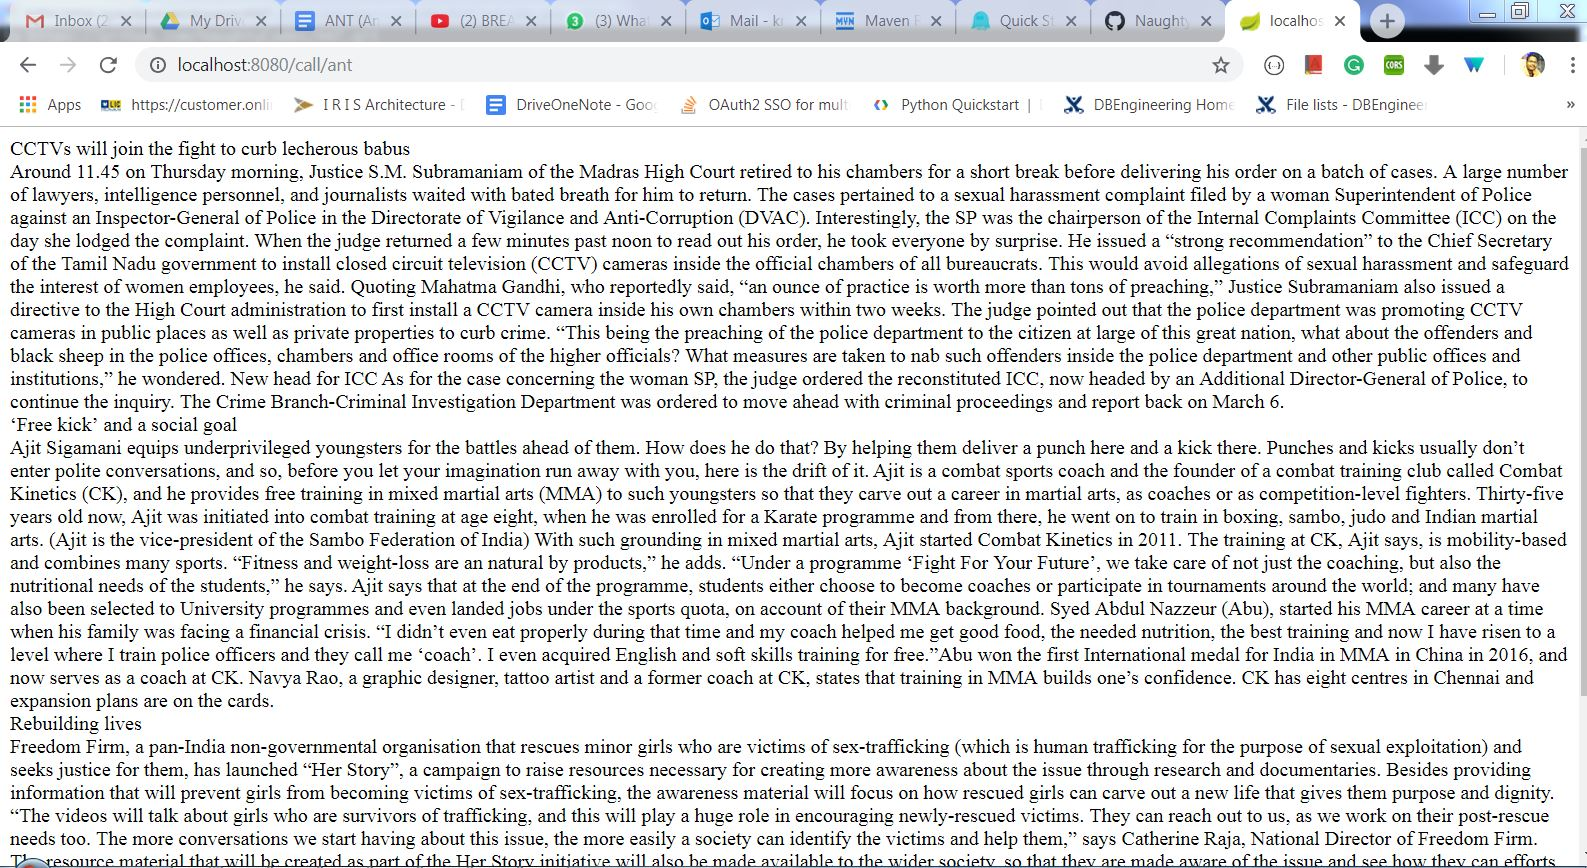
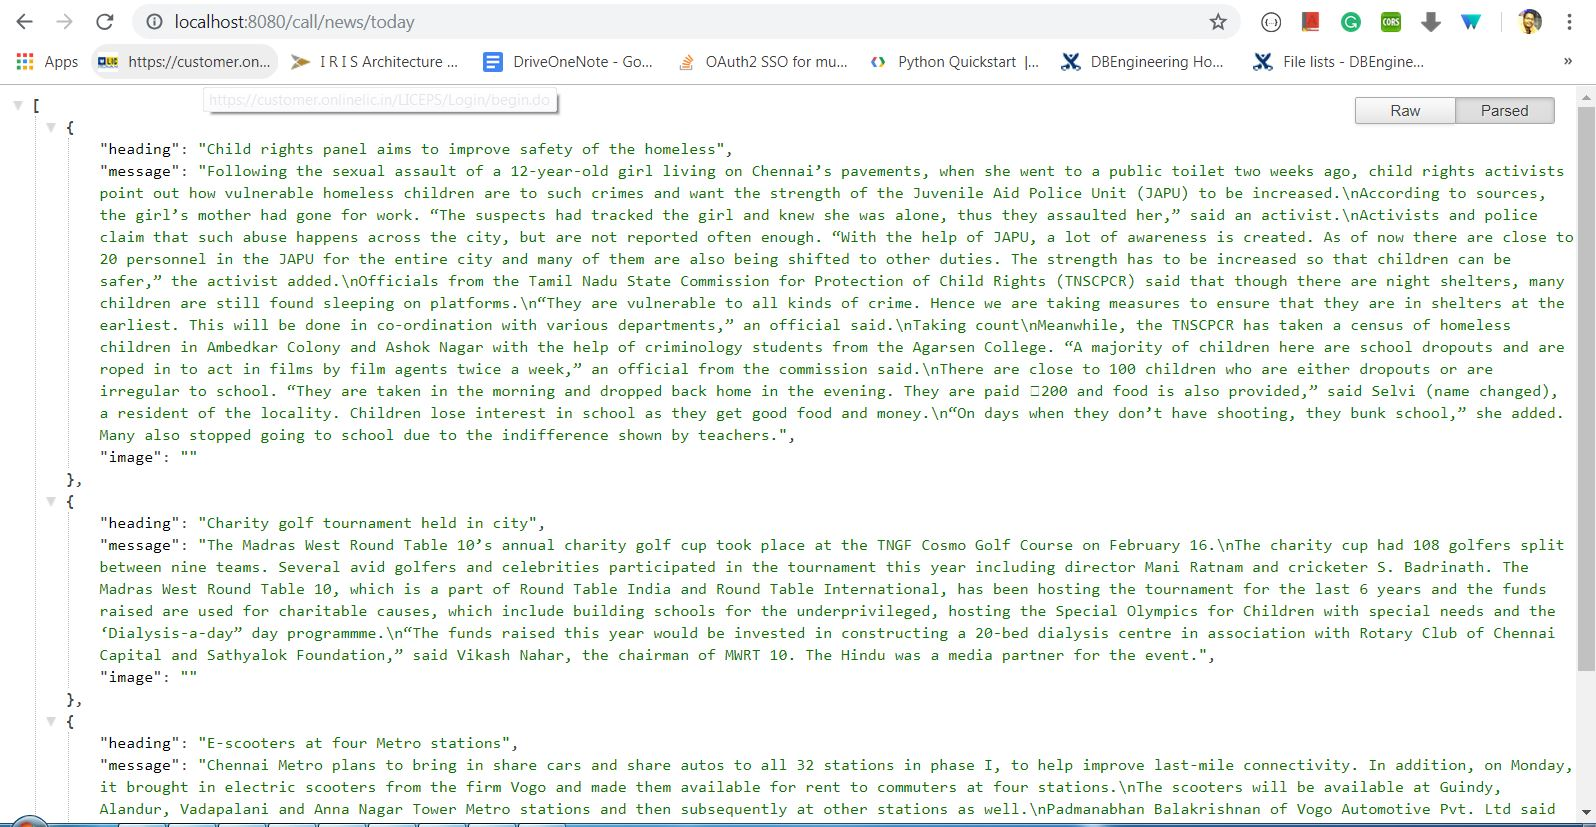
added source reader service in utility

diff --git a/src/main/java/com/ant/app/utils/UrlSourceReader.java b/src/main/java/com/ant/app/utils/UrlSourceReader.java
@@ -1,0 +1,77 @@
+package com.ant.app.utils;
+
+import java.io.File;
+import java.util.ArrayList;
+import java.util.List;
+
+import org.openqa.selenium.By;
+import org.openqa.selenium.WebDriver;
+import org.openqa.selenium.WebElement;
+import org.openqa.selenium.phantomjs.PhantomJSDriver;
+import org.openqa.selenium.phantomjs.PhantomJSDriverService;
+import org.openqa.selenium.remote.DesiredCapabilities;
+
+import com.ant.app.domain.NewsStorie;
+
+public class UrlSourceReader implements SourceReader {
+
+	private static String url;
+	private static List<String> cssSelectors = new ArrayList<String>();
+	private static String phantomPath;
+	private static List<NewsStorie> newsStories = new ArrayList<NewsStorie>();;
+	
+	@Override
+	public void sourceInitilizer() {
+		// TODO Auto-generated method stub
+		this.url = "http://www.thehindu.com/news/cities/chennai/feeder/default.rss";
+		this.cssSelectors.add("h1[class='title']");
+		this.cssSelectors.add("div[id^='content-body-']");
+		this.phantomPath = "G:\\sw\\phantomjs-2.1.1-windows\\bin\\phantomjs.exe";
+	}
+
+	@Override
+	public void sourceReader() {
+		// TODO Auto-generated method stub
+		
+		WebDriver iDriver = null;
+		WebDriver driver = null;
+		DesiredCapabilities dcap = new DesiredCapabilities();
+		String[] phantomArgs = new String[] { "--webdriver-loglevel=NONE" };
+		dcap.setCapability(PhantomJSDriverService.PHANTOMJS_CLI_ARGS, phantomArgs);
+
+		File file = new File(this.phantomPath);
+		System.setProperty("phantomjs.binary.path", file.getAbsolutePath());
+		driver = new PhantomJSDriver(dcap);
+		driver.get(this.url);
+		int i = 0;
+		for (WebElement e : driver.findElements(By.tagName("link"))) {
+			System.out.println(e.getText());
+			NewsStorie ns = new NewsStorie();
+			if (!e.getText().contentEquals("https://www.thehindu.com/") && (i<=2)) {
+				try {
+					iDriver = new PhantomJSDriver(dcap);
+					iDriver.get(e.getText());
+					ns.setHeading(iDriver.findElement(By.cssSelector(this.cssSelectors.get(0))).getText());
+					ns.setMessage(iDriver.findElement(By.cssSelector(this.cssSelectors.get(1))).getText());
+					ns.setImage("");
+					this.newsStories.add(ns);
+					iDriver.quit();
+					i++;
+				} catch (Exception exception) {
+					iDriver.quit();
+					driver.quit();
+				}
+			}
+		}
+		driver.quit();
+	}
+
+	@Override
+	public List<NewsStorie> getNewsStories() {
+		// TODO Auto-generated method stub
+		return this.newsStories;
+	}
+	
+	
+
+}

diff --git a/src/main/java/com/ant/app/controller/AntController.java b/src/main/java/com/ant/app/controller/AntController.java
@@ -1,6 +1,7 @@
 package com.ant.app.controller;
 
 import java.io.File;
+import java.util.List;
 
 import org.openqa.selenium.By;
 import org.openqa.selenium.WebDriver;
@@ -11,51 +12,24 @@ import org.openqa.selenium.remote.DesiredCapabilities;
 import org.springframework.web.bind.annotation.RequestMapping;
 import org.springframework.web.bind.annotation.RestController;
 
+import com.ant.app.domain.NewsStorie;
+import com.ant.app.utils.UrlSourceReader;
+
 @RestController
 @RequestMapping("/call")
 public class AntController {
 
-	@RequestMapping("/ant")
-	public String callAnt() {
-
+	@RequestMapping("/news/today")
+	public List<NewsStorie> readNewsToday() {
+		
+		UrlSourceReader sourceReader = new UrlSourceReader();
 		StringBuilder sb = new StringBuilder();
-		WebDriver iDriver = null;
-		WebDriver driver = null;
-		DesiredCapabilities dcap = new DesiredCapabilities();
-		String[] phantomArgs = new String[] { "--webdriver-loglevel=NONE" };
-		dcap.setCapability(PhantomJSDriverService.PHANTOMJS_CLI_ARGS, phantomArgs);
-
-		File file = new File("G:\\sw\\phantomjs-2.1.1-windows\\bin\\phantomjs.exe");
-		System.setProperty("phantomjs.binary.path", file.getAbsolutePath());
-		driver = new PhantomJSDriver(dcap);
-		driver.get("http://www.thehindu.com/news/cities/chennai/feeder/default.rss");
-		int i = 0;
-		for (WebElement e : driver.findElements(By.tagName("link"))) {
-			System.out.println(e.getText());
-			if (!e.getText().contentEquals("https://www.thehindu.com/") && (i<=2)) {
-				try {
-					iDriver = new PhantomJSDriver(dcap);
-					iDriver.get(e.getText());
-					sb.append("<h3>");
-					sb.append(iDriver.findElement(By.cssSelector("h1[class='title']")).getText());
-					sb.append("</h3>");
-					sb.append("<br />");
-					sb.append(iDriver.findElement(By.cssSelector("div[id^='content-body-']")).getText());
-					sb.append("<br /><br />");
-					iDriver.quit();
-					i++;
-					//break;
-				} catch (Exception exception) {
-					iDriver.quit();
-					driver.quit();
-				}
-			}
+		sourceReader.sourceInitilizer();
+		sourceReader.sourceReader();
+		for(NewsStorie n : sourceReader.getNewsStories()) {
+			sb.append(n.htmlString());
 		}
-
-		driver.quit();
-
-		return sb.toString();
-
+		return sourceReader.getNewsStories();
 	}
 
 }

diff --git a/src/main/java/com/ant/app/domain/NewsStorie.java b/src/main/java/com/ant/app/domain/NewsStorie.java
@@ -1,0 +1,48 @@
+package com.ant.app.domain;
+
+public class NewsStorie {
+	
+	private String heading;
+	private String message;
+	private String image;
+	
+	public NewsStorie() {
+		super();
+	}
+
+	public NewsStorie(String heading, String message, String image) {
+		super();
+		this.heading = heading;
+		this.message = message;
+		this.image = image;
+	}
+	
+	public String getHeading() {
+		return heading;
+	}
+	public void setHeading(String heading) {
+		this.heading = heading;
+	}
+	public String getMessage() {
+		return message;
+	}
+	public void setMessage(String message) {
+		this.message = message;
+	}
+	public String getImage() {
+		return image;
+	}
+	public void setImage(String image) {
+		this.image = image;
+	}
+	
+	@Override
+	public String toString() {
+		return "NewsStorie [heading=" + heading + ", message=" + message + ", image=" + image + "]";
+	}
+	
+	public String htmlString() {
+		return "<h3>"+this.getHeading()+"</h3><br />"+this.getMessage()+"<br /><br />";
+	}
+
+}

diff --git a/src/main/java/com/ant/app/utils/SourceReader.java b/src/main/java/com/ant/app/utils/SourceReader.java
@@ -1,0 +1,13 @@
+package com.ant.app.utils;
+
+import java.util.List;
+
+import com.ant.app.domain.NewsStorie;
+
+public interface SourceReader {
+	
+	void sourceInitilizer();
+	void sourceReader();
+	List<NewsStorie> getNewsStories();
+
+}
